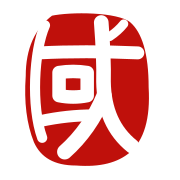
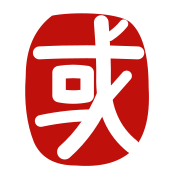
采用第二版国字印章去除内侧竖线并补齐右侧短撇

Changed region(s): [[0.1667, 0.1111, 0.2778, 0.8056], [0.6111, 0.3889, 0.75, 0.5556]]

diff --git a/src/version.js b/src/version.js
@@ -1,2 +1,2 @@
 export const GAME_VERSION = '3.3.0';
-export const BUILD_ID = '20261110-carrier-nature-r2';
+export const BUILD_ID = '20261110-seal-strokes-r1';
